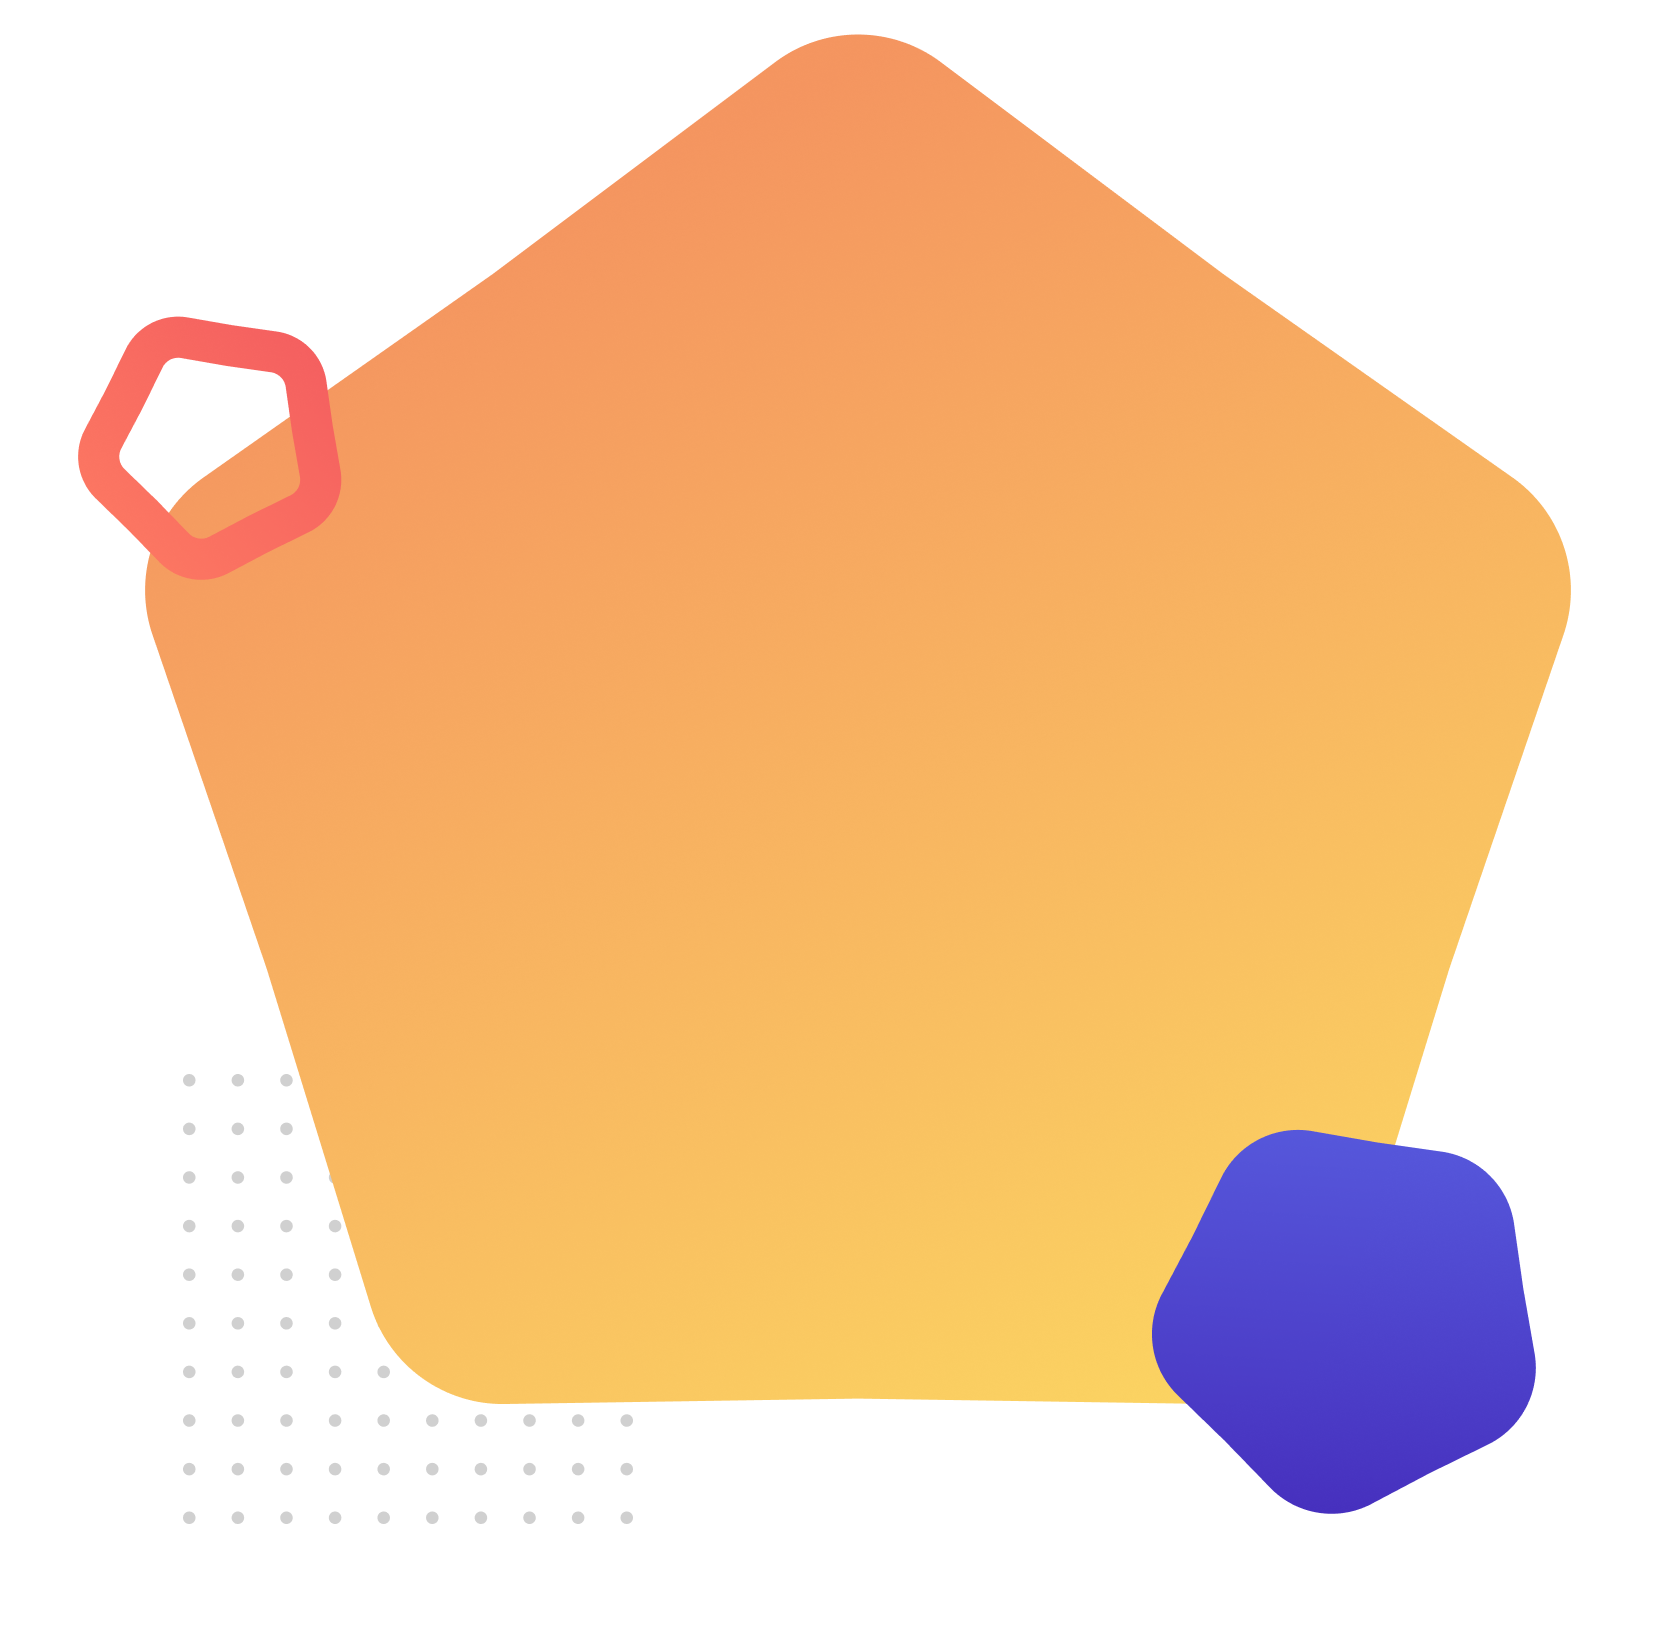
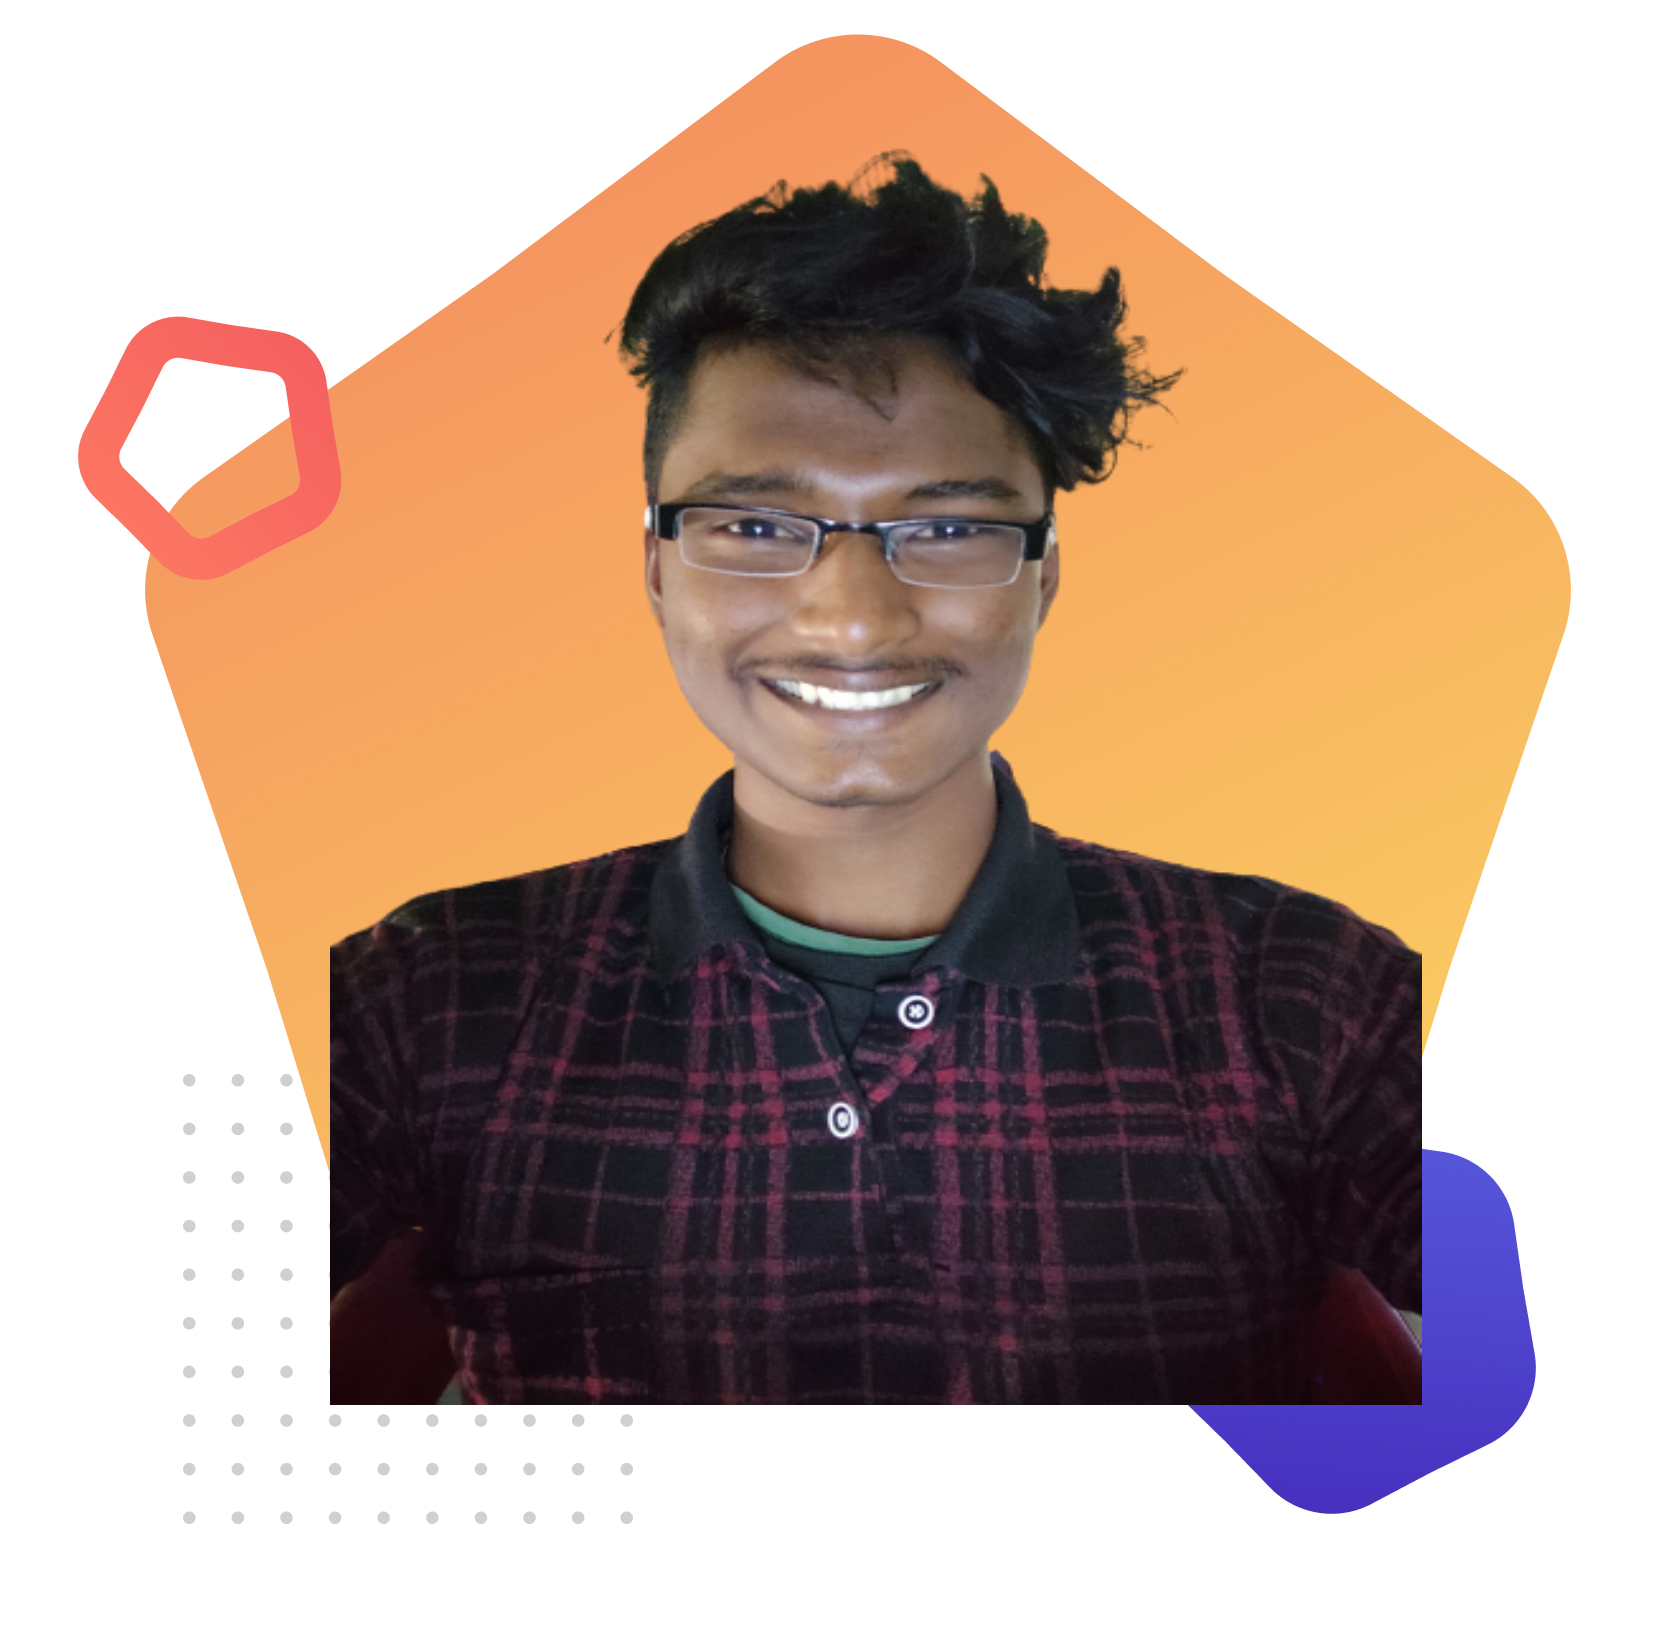
mma

diff --git a/index.html b/index.html
@@ -40,6 +40,23 @@
             <img src="img/dim.png" alt="">
         </div>
     </section>
+    <section>
+        <div>
+           <img src="img/dim2.png" alt="">
+        </div>
+
+        <div>
+            <h1>
+                ABOUT
+
+            </h1>
+            <p>
+                It's me Abd Abdullah.I'm  a web developer.I learn web development by doing a web  development
+                course with Jhankar Mahbub.He taught a lot of us.But the main thing in web development.We should
+                learn the new things all the time.I do learn the latest things all the time.
+            </p>
+        </div>
+    </section>
 
 </body>
 </html>
